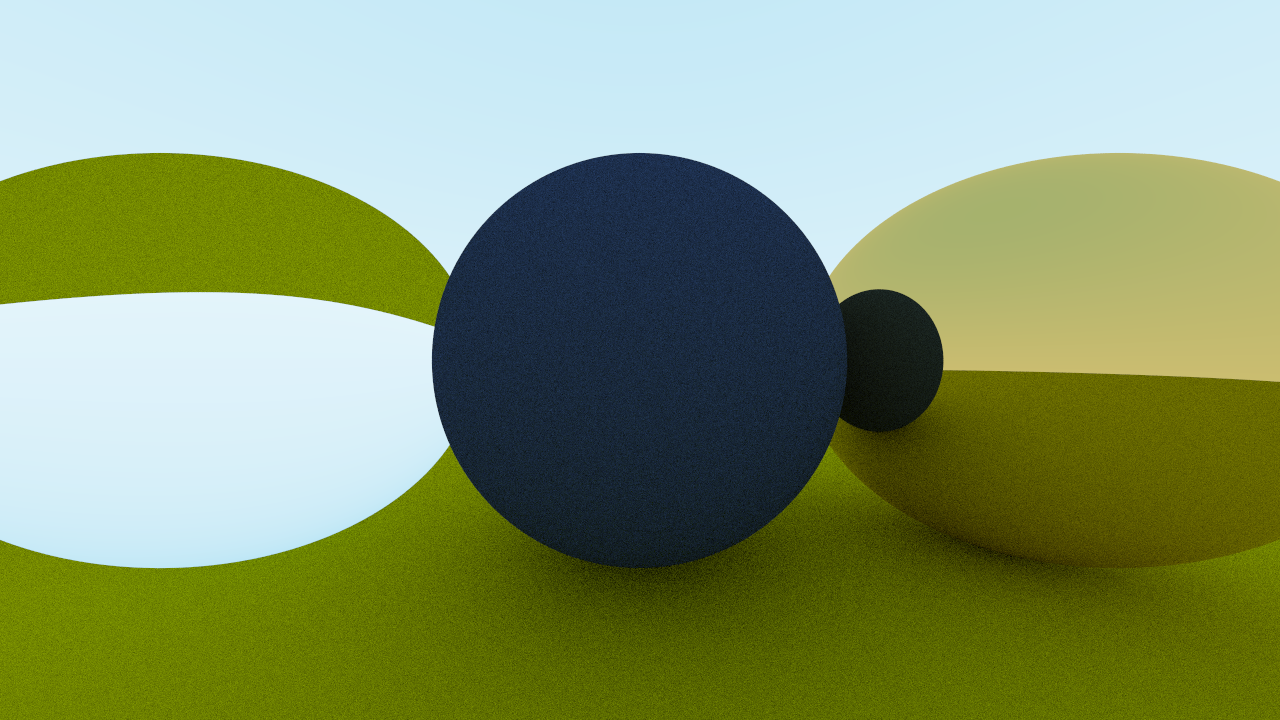
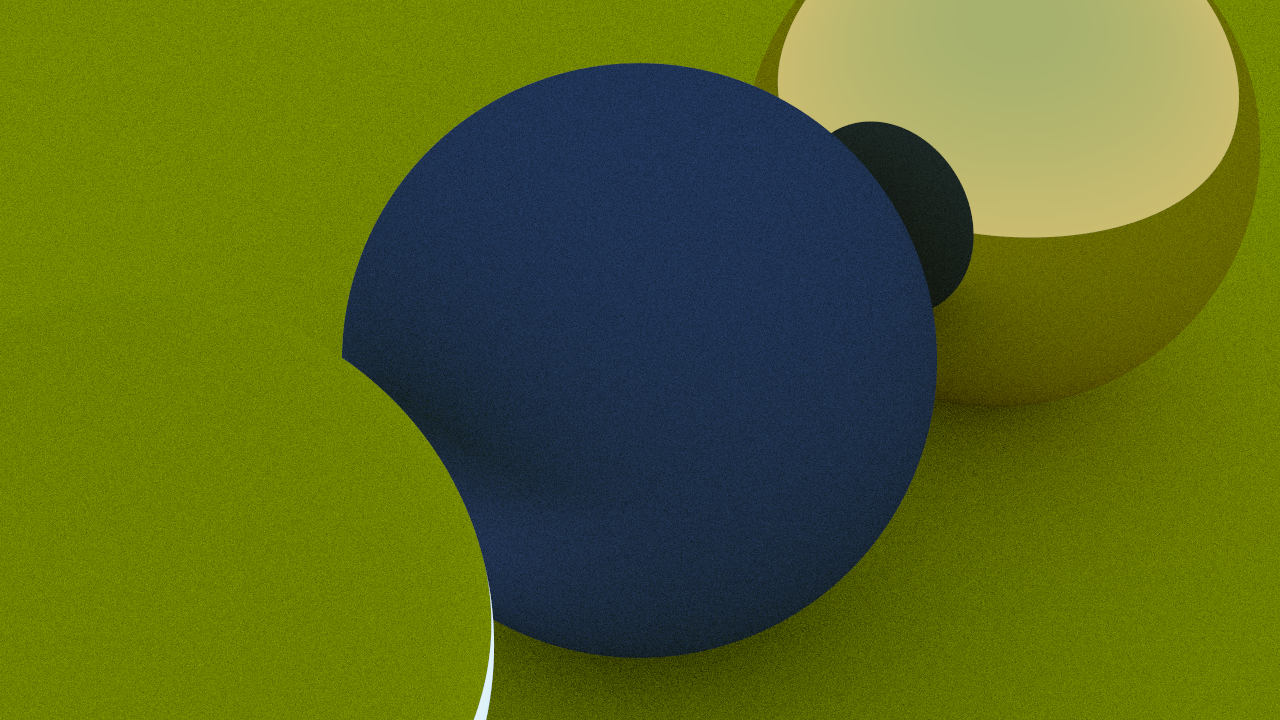
Finished section 11: "Positionable Camera"

diff --git a/src/camera.rs b/src/camera.rs
@@ -1,42 +1,56 @@
 use crate::geometry::{Point3D, Ray, Vec3D};
 
 pub struct Camera {
+    look_from: Point3D,
+    look_at: Point3D,
+    view_up: Vec3D,
     origin: Point3D,
     lower_left_corner: Point3D,
     horizontal: Vec3D,
     vertical: Vec3D,
+    vertical_fov: f64, // Degrees
+    aspect_ratio: (i32, i32),
 }
 
 impl Camera {
     pub fn new(
+        look_from: Point3D,
+        look_at: Point3D,
+        view_up: Vec3D,
         aspect_ratio: (i32, i32),
-        viewport_height: f64,
-        focal_length: f64,
-        origin: Vec3D,
+        vertical_fov: f64,
     ) -> Self {
-        // let viewport_height = 2.0;
+        let theta = vertical_fov.to_radians();
+        let h = (theta / 2.0).tan();
+
+        let viewport_height = 2.0 * h;
         let viewport_width = viewport_height * (aspect_ratio.0 as f64 / aspect_ratio.1 as f64);
 
-        let horizontal = Vec3D::new(viewport_width, 0, 0);
-        let vertical = Vec3D::new(0, viewport_height, 0);
+        let w = (look_from - look_at).normalized();
+        let u = view_up.cross_product(&w).normalized();
+        let v = w.cross_product(&u);
 
-        // let view_port = aspect_ratio;
-        // let horizontal = Vec3D::new(view_port.0, 0, 0);
-        // let vertical = Vec3D::new(0, view_port.1, 0);
-        let lower_left_corner =
-            origin - horizontal / 2 - vertical / 2 - Vec3D::new(0, 0, focal_length);
+        let origin = look_from;
+        let horizontal = viewport_width * u;
+        let vertical = viewport_height * v;
+        let lower_left_corner = origin - horizontal / 2 - vertical / 2 - w;
 
         Self {
+            look_from,
+            look_at,
+            view_up,
             origin,
             lower_left_corner,
             horizontal,
             vertical,
+            vertical_fov,
+            aspect_ratio,
         }
     }
 
-    pub fn get_ray(&self, u: f64, v: f64) -> Ray {
+    pub fn get_ray(&self, s: f64, t: f64) -> Ray {
         let direction =
-            self.lower_left_corner + u * self.horizontal + v * self.vertical - self.origin;
+            self.lower_left_corner + s * self.horizontal + t * self.vertical - self.origin;
         Ray::new(self.origin, direction)
     }
 }

diff --git a/src/main.rs b/src/main.rs
@@ -1,9 +1,11 @@
+use std::f64::consts::PI;
+
 use anyhow::Result;
 use indicatif::{ProgressIterator, ProgressStyle};
 
 use nova::{
     camera::Camera,
-    geometry::Point3D,
+    geometry::{Point3D, Vec3D},
     image::{Color, Image},
     obstacle::{material, ObstacleCollection, Sphere},
 };
@@ -18,7 +20,14 @@ fn main() -> Result<()> {
     let max_ray_recursion_depth = 50;
 
     // World
+    // let R = (PI/4.0).cos();
     let world = ObstacleCollection::new(vec![
+        // Box::new(Sphere::new(
+        //     Point3D::new(-R, 0, -1), R, material::Lambertian::new(1.0, Color::new(0.0, 0.0, 1.0))
+        // )),
+        // Box::new(Sphere::new(
+        //     Point3D::new(R, 0, -1), R, material::Lambertian::new(1.0, Color::new(1.0, 0.0, 0.0))
+        // )),
         Box::new(Sphere::new(
             Point3D::new(0, -100.5, -1),
             100,
@@ -27,7 +36,7 @@ fn main() -> Result<()> {
         Box::new(Sphere::new(
             Point3D::new(0, 0, -1),
             0.5,
-            material::Lambertian::new(0.8, Color::new(0.1, 0.2, 0.5)),
+            material::Lambertian::new(0.9, Color::new(0.1, 0.2, 0.5)),
         )),
         Box::new(Sphere::new(
             Point3D::new(-1, 0, -1),
@@ -43,10 +52,11 @@ fn main() -> Result<()> {
 
     // Camera
     let camera = Camera::new(
+        Point3D::new(-2, 2, 1),
+        Point3D::new(0, 0, -1),
+        Vec3D::new(0, 1, 0),
         (aspect_ratio.0 as i32, aspect_ratio.1 as i32),
-        2.0,
-        1.0,
-        Point3D::new(0, 0, 0),
+        20.0,
     );
 
     // Render
